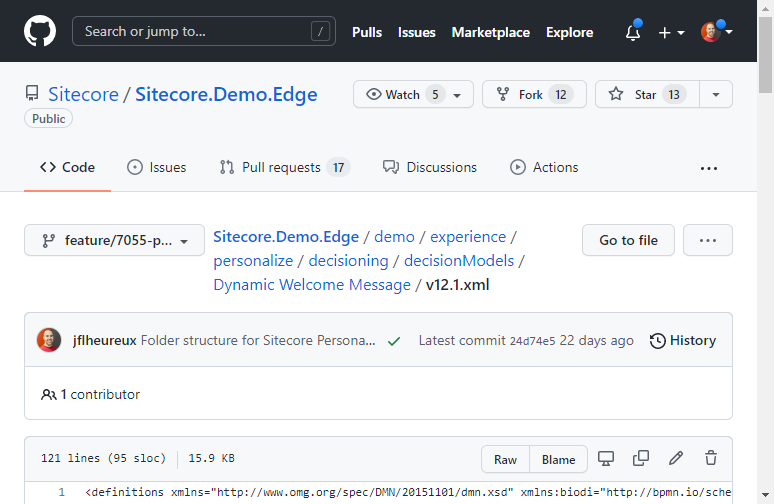
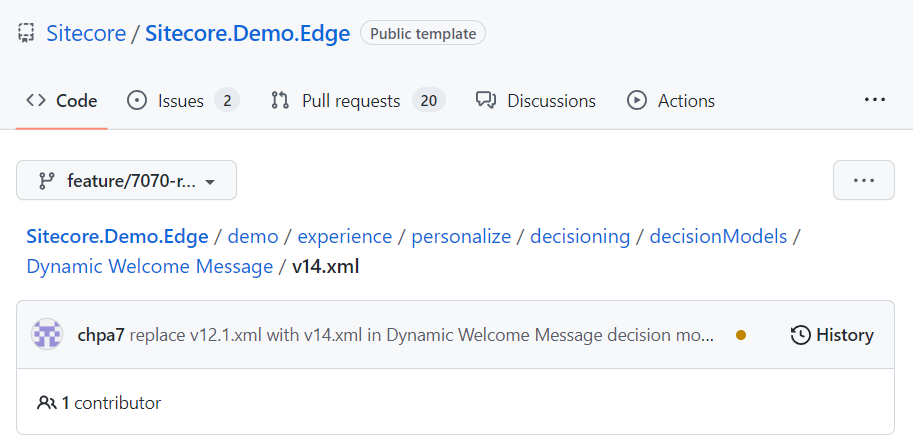
AB#7070 Remove guest IP address and browser language from CDP data extensions (#464)

diff --git a/demo/experience/personalize/decisioning/decisionModels/Dynamic Welcome Message/ipAddress.js b/demo/experience/personalize/decisioning/decisionModels/Dynamic Welcome Message/ipAddress.js
@@ -1,13 +1,18 @@
 (function () {
-	var PERSONAL_INFORMATION_DATA_EXTENSION_NAME = "PersonalInformation";
+    // First try to retrieve the IP address from the callFlows params object
+    if (request && request.params && request.params.ipAddress) {
+        return request.params.ipAddress;
+    }
 
-	for (var dataExtensionIndex = 0; dataExtensionIndex < guest.dataExtensions.length; dataExtensionIndex++) {
-			var dataExtension = guest.dataExtensions[dataExtensionIndex];
+    var PERSONAL_INFORMATION_DATA_EXTENSION_NAME = "PersonalInformation";
 
-			if (dataExtension.name === PERSONAL_INFORMATION_DATA_EXTENSION_NAME) {
-				return dataExtension.values.ipAddress || undefined;
-			}
-	}
+    for (var dataExtensionIndex = 0; dataExtensionIndex < guest.dataExtensions.length; dataExtensionIndex++) {
+        var dataExtension = guest.dataExtensions[dataExtensionIndex];
 
-	return undefined;
+        if (dataExtension.name === PERSONAL_INFORMATION_DATA_EXTENSION_NAME) {
+            return dataExtension.values.ipAddress || undefined;
+        }
+    }
+
+    return undefined;
 })();

diff --git a/demo/experience/personalize/decisioning/decisionModels/Dynamic Welcome Message/browserLanguage.js b/demo/experience/personalize/decisioning/decisionModels/Dynamic Welcome Message/browserLanguage.js
@@ -1,13 +1,18 @@
 (function () {
-	var PERSONAL_INFORMATION_DATA_EXTENSION_NAME = "PersonalInformation";
+    // First try to retrieve the browser language from the callFlows params object
+    if (request && request.params && request.params.browserLanguage) {
+        return request.params.browserLanguage;
+    }
 
-	for (var dataExtensionIndex = 0; dataExtensionIndex < guest.dataExtensions.length; dataExtensionIndex++) {
-			var dataExtension = guest.dataExtensions[dataExtensionIndex];
+    var PERSONAL_INFORMATION_DATA_EXTENSION_NAME = "PersonalInformation";
 
-			if (dataExtension.name === PERSONAL_INFORMATION_DATA_EXTENSION_NAME) {
-					return dataExtension.values.language || 'en';
-			}
-	}
+    for (var dataExtensionIndex = 0; dataExtensionIndex < guest.dataExtensions.length; dataExtensionIndex++) {
+        var dataExtension = guest.dataExtensions[dataExtensionIndex];
 
-	return 'en';
+        if (dataExtension.name === PERSONAL_INFORMATION_DATA_EXTENSION_NAME) {
+            return dataExtension.values.language || 'en';
+        }
+    }
+
+    return 'en';
 })();

diff --git a/Website/src/rendering/src/services/BoxeverService.tsx b/Website/src/rendering/src/services/BoxeverService.tsx
@@ -660,19 +660,13 @@ export function getDynamicWelcomeMessage(
   ipAddress: string,
   language: string
 ): Promise<WelcomeMessage> {
-  const dataExtensionName = 'PersonalInformation';
-
-  const dataExtensionPayload = {
-    key: dataExtensionName,
-    ipAddress,
-    language,
-  };
-  return saveDataExtension(dataExtensionName, dataExtensionPayload).then(
-    () =>
-      callFlows({
-        friendlyId: 'dynamic_welcome_message',
-      }) as Promise<WelcomeMessage>
-  );
+  return callFlows({
+    params: {
+      ipAddress,
+      browserLanguage: language,
+    },
+    friendlyId: 'dynamic_welcome_message',
+  }) as Promise<WelcomeMessage>;
 }
 
 // ***************************

diff --git a/Website/src/rendering/src/components/PageContent/DynamicWelcomeMessage.tsx b/Website/src/rendering/src/components/PageContent/DynamicWelcomeMessage.tsx
@@ -1,5 +1,5 @@
 import { useEffect, useState } from 'react';
-import { getDynamicWelcomeMessage, WelcomeMessage } from 'src/services/BoxeverService';
+import { getDynamicWelcomeMessage, WelcomeMessage } from 'src/services/CdpService';
 import { getIpAddress } from 'src/services/IpAddressService';
 import { useRouter } from 'next/router';
 

diff --git a/Website/src/rendering/src/services/CdpService.ts b/Website/src/rendering/src/services/CdpService.ts
@@ -25,6 +25,8 @@ export const isCdpConfigured = boxeverIsCdpConfigured;
 
 export const CdpScripts: JSX.Element | undefined = BoxeverScripts;
 
+export type { WelcomeMessage } from './BoxeverService';
+
 type viewEventAdditionalData = {
   sitecoreTemplateName?: string;
   premiumContent?: boolean;

diff --git a/docs/cdp-personalize/decisioning/decisionModels/Dynamic-Welcome-Message/README.md b/docs/cdp-personalize/decisioning/decisionModels/Dynamic-Welcome-Message/README.md
@@ -40,7 +40,7 @@
 
    ![Empty canvas](/docs/cdp-personalize/decisioning/decisionModels/Empty-canvas.png)
 
-8. In a new browser tab, open the [GitHub decision model XML file](/demo/experience/personalize/decisioning/decisionModels/Dynamic%20Welcome%20Message/v12.1.xml).
+8. In a new browser tab, open the [GitHub decision model XML file](/demo/experience/personalize/decisioning/decisionModels/Dynamic%20Welcome%20Message/v14.xml).
 
    ![XML file](GitHub.png)
 
